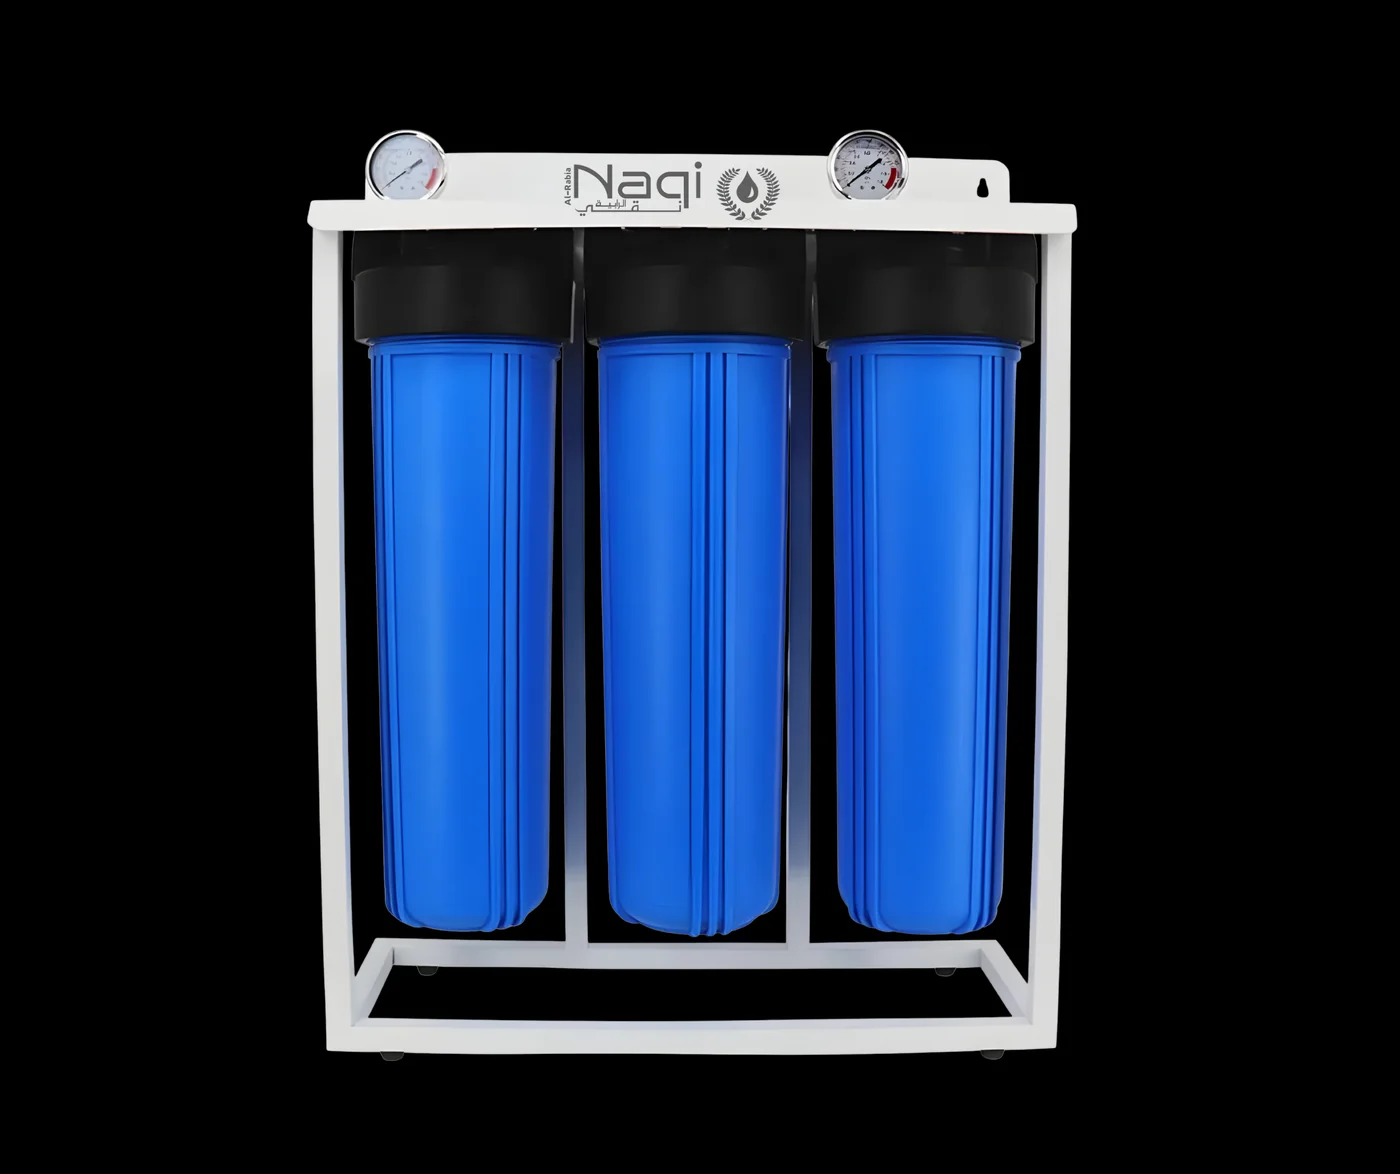
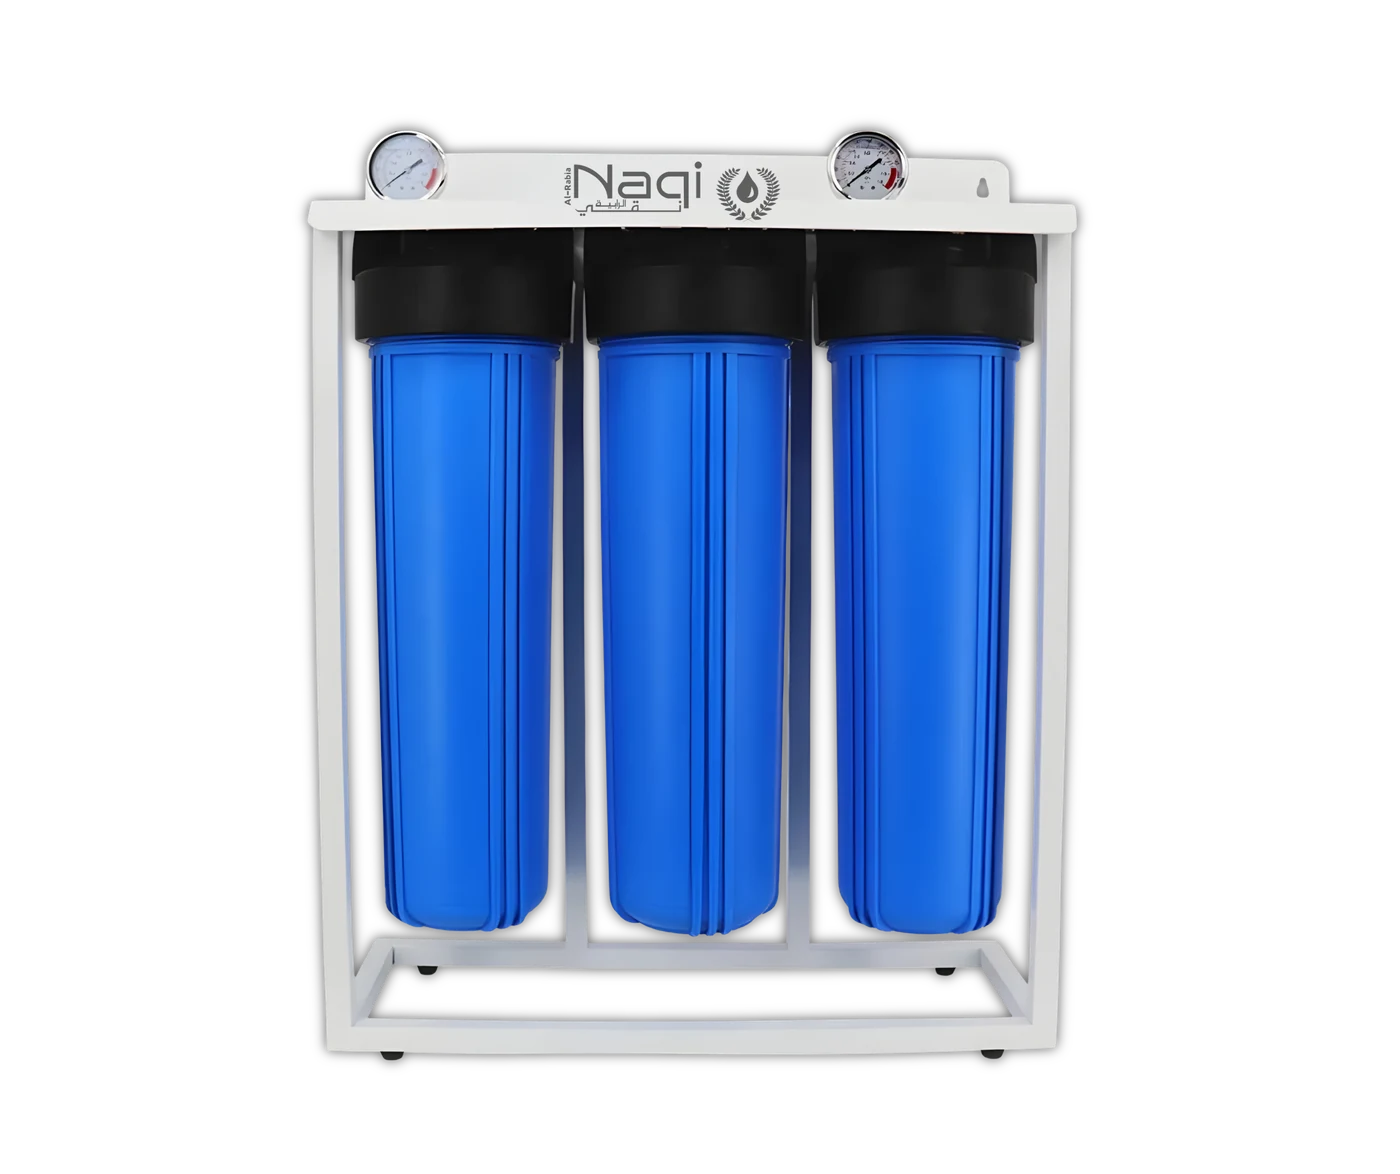
fix: mobile nav overlay, restore product transparency, enlarge CTA image
- Mobile nav: render the menu in a portal on document.body so it escapes the
  header's backdrop-filter containing block (which had made the fixed overlay
  fail to cover the viewport). Restyle to a nearly-opaque navy + backdrop blur
  with white text/logo and a gold CTA; lock body scroll while open. Use
  useSyncExternalStore for the client-mounted flag (lint-clean, no setState in
  effect).
- Products: re-convert the 3 product images to WebP with the alpha channel
  preserved (a prior RGB conversion had flattened transparency onto black,
  showing black boxes in production). They now render transparently on both the
  light (white) and dark (navy) product stages.
- CTA: enlarge the final consultation image into a major visual element
  (440px mobile / 580px desktop, wider column, full opacity) without cropping
  the product.

diff --git a/src/components/layout/site-header.tsx b/src/components/layout/site-header.tsx
@@ -1,6 +1,7 @@
 "use client";
 
-import { useEffect, useState } from "react";
+import { useEffect, useState, useSyncExternalStore } from "react";
+import { createPortal } from "react-dom";
 import { AnimatePresence, motion } from "framer-motion";
 import { Menu, X } from "lucide-react";
 import { useTranslations } from "next-intl";
@@ -17,6 +18,12 @@ export function SiteHeader() {
   const pathname = usePathname();
   const [scrolled, setScrolled] = useState(false);
   const [open, setOpen] = useState(false);
+  // Client-mounted flag (false on server) so the portal only renders client-side.
+  const mounted = useSyncExternalStore(
+    () => () => {},
+    () => true,
+    () => false,
+  );
 
   useEffect(() => {
     const onScroll = () => setScrolled(window.scrollY > 12);
@@ -96,64 +103,70 @@ export function SiteHeader() {
         </div>
       </div>
 
-      <AnimatePresence>
-        {open ? (
-          <motion.div
-            id="mobile-site-menu"
-            role="dialog"
-            aria-modal="true"
-            aria-label={t("header.openMenu")}
-            className="fixed inset-0 z-[60] bg-bg lg:hidden"
-            initial={{ opacity: 0 }}
-            animate={{ opacity: 1 }}
-            exit={{ opacity: 0 }}
-            transition={{ duration: 0.25 }}
-          >
-            <div className="flex h-20 items-center justify-between px-5 sm:px-8">
-              <Logo className="h-11 w-auto" />
-              <button
-                type="button"
-                onClick={() => setOpen(false)}
-                aria-label={t("header.closeMenu")}
-                className="inline-flex size-11 items-center justify-center rounded-[var(--radius-md)] text-fg"
-              >
-                <X className="size-6" aria-hidden />
-              </button>
-            </div>
-            <nav className="flex flex-col gap-1 px-5 pt-6 sm:px-8">
-              {mainNav.map((item, i) => (
+      {mounted
+        ? createPortal(
+            <AnimatePresence>
+              {open ? (
                 <motion.div
-                  key={item.key}
-                  initial={{ opacity: 0, y: 12 }}
-                  animate={{ opacity: 1, y: 0 }}
-                  transition={{ delay: 0.05 + i * 0.05 }}
+                  key="mobile-menu"
+                  id="mobile-site-menu"
+                  role="dialog"
+                  aria-modal="true"
+                  aria-label={t("header.openMenu")}
+                  className="fixed inset-0 z-[100] flex flex-col bg-navy/95 text-white backdrop-blur-xl lg:hidden"
+                  initial={{ opacity: 0 }}
+                  animate={{ opacity: 1 }}
+                  exit={{ opacity: 0 }}
+                  transition={{ duration: 0.25, ease: [0.16, 1, 0.3, 1] }}
                 >
-                  <Link
-                    href={item.href}
+                <div className="flex h-20 shrink-0 items-center justify-between px-5 sm:px-8">
+                  <Logo tone="white" className="h-11 w-auto" />
+                  <button
+                    type="button"
                     onClick={() => setOpen(false)}
-                    className="block border-b border-border py-4 font-display text-2xl font-bold text-fg"
+                    aria-label={t("header.closeMenu")}
+                    className="inline-flex size-11 items-center justify-center rounded-[var(--radius-md)] text-white transition-colors hover:bg-white/10"
                   >
-                    {t(`nav.${item.key}`)}
+                    <X className="size-6" aria-hidden />
+                  </button>
+                </div>
+                <nav className="flex flex-1 flex-col gap-1 overflow-y-auto px-5 pt-4 sm:px-8">
+                  {mainNav.map((item, i) => (
+                    <motion.div
+                      key={item.key}
+                      initial={{ opacity: 0, y: 12 }}
+                      animate={{ opacity: 1, y: 0 }}
+                      transition={{ delay: 0.05 + i * 0.05 }}
+                    >
+                      <Link
+                        href={item.href}
+                        onClick={() => setOpen(false)}
+                        className="block border-b border-white/10 py-4 font-display text-2xl font-bold text-white"
+                      >
+                        {t(`nav.${item.key}`)}
+                      </Link>
+                    </motion.div>
+                  ))}
+                </nav>
+                <div className="flex shrink-0 items-center justify-between gap-4 px-5 pb-8 pt-6 sm:px-8">
+                  <div className="flex items-center gap-2 [&_button]:text-white [&_svg]:text-white">
+                    <LocaleSwitcher />
+                    <ThemeToggle />
+                  </div>
+                  <Link
+                    href="/contact"
+                    onClick={() => setOpen(false)}
+                    className={cn(buttonVariants({ variant: "gold", size: "md" }))}
+                  >
+                    {t("header.bookConsultation")}
                   </Link>
+                </div>
                 </motion.div>
-              ))}
-            </nav>
-            <div className="flex items-center justify-between px-5 pt-8 sm:px-8">
-              <div className="flex items-center gap-2">
-                <LocaleSwitcher />
-                <ThemeToggle />
-              </div>
-              <Link
-                href="/contact"
-                onClick={() => setOpen(false)}
-                className={cn(buttonVariants({ variant: "primary", size: "md" }))}
-              >
-                {t("header.bookConsultation")}
-              </Link>
-            </div>
-          </motion.div>
-        ) : null}
-      </AnimatePresence>
+              ) : null}
+            </AnimatePresence>,
+            document.body,
+          )
+        : null}
     </header>
   );
 }

diff --git a/src/components/site/cta-band.tsx b/src/components/site/cta-band.tsx
@@ -33,8 +33,8 @@ export async function CtaBand({
 
   return (
     <section className="bg-navy text-white">
-      <div className="mx-auto grid max-w-[1320px] items-stretch gap-0 px-0 lg:grid-cols-2">
-        <div className="flex flex-col justify-center px-5 py-20 sm:px-8 lg:px-16 lg:py-28">
+      <div className="mx-auto grid max-w-[1320px] items-stretch gap-0 px-0 lg:grid-cols-[1fr_1.15fr]">
+        <div className="flex flex-col justify-center px-5 py-16 sm:px-8 lg:px-16 lg:py-28">
           <Eyebrow tone="onDark">{eyebrow}</Eyebrow>
           <h2 className="mt-6 max-w-[16ch] font-display text-[clamp(2.1rem,3.6vw,3.1rem)] font-extrabold leading-[1.08]">
             {title}
@@ -62,14 +62,13 @@ export async function CtaBand({
             </a>
           </div>
         </div>
-        <div className="relative min-h-[280px] lg:min-h-full">
+        <div className="relative min-h-[440px] lg:min-h-[580px]">
           <BrandImage
             image={image}
             locale={locale}
             ratio="auto"
             className="absolute inset-0 h-full w-full rounded-none bg-navy"
-            imgClassName="opacity-90"
-            sizes="(max-width: 1024px) 100vw, 660px"
+            sizes="(max-width: 1024px) 100vw, 760px"
           />
         </div>
       </div>